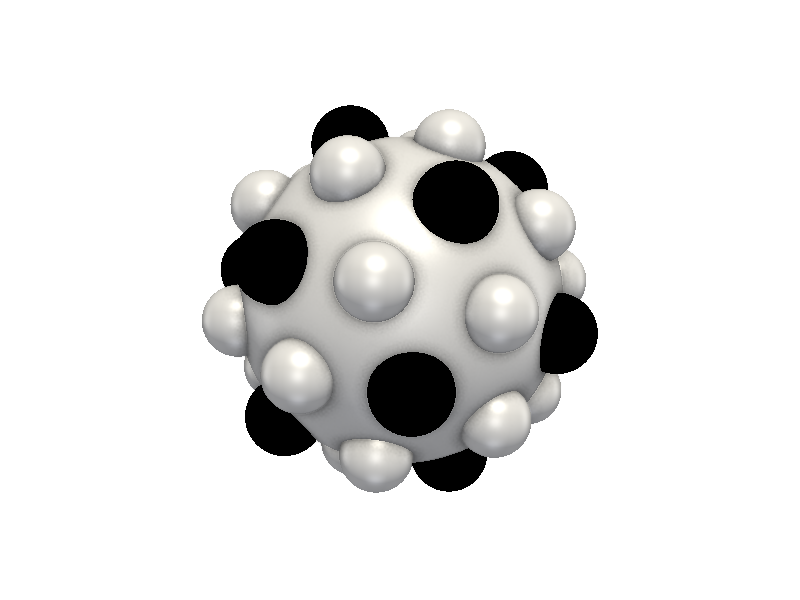
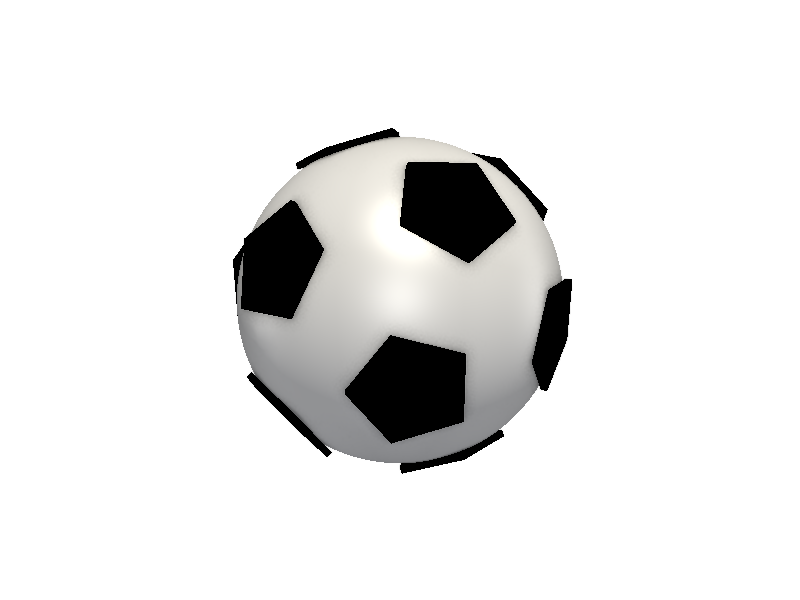
Redesign soccer ball to use flat pentagons instead of sphere bumps
The previous implementation placed small spheres at icosahedron vertices
which looked like bumps rather than a soccer ball. This new approach
creates actual flat pentagon shapes oriented tangent to the sphere
surface, producing the classic black-and-white soccer ball appearance.

Changed region(s): [[0.25, 0.18, 0.75, 0.84]]

diff --git a/examples/soccer_ball/model.py b/examples/soccer_ball/model.py
@@ -1,13 +1,14 @@
 """Soccer Ball Example
 
-A classic black and white soccer ball based on a truncated icosahedron.
-The soccer ball has 12 pentagonal panels (black) and 20 hexagonal panels (white).
+A classic black and white soccer ball with the iconic pentagon pattern.
+The 12 black pentagons are positioned at the vertices of an icosahedron,
+creating the recognizable soccer ball appearance.
 
 This example demonstrates:
 - Multi-component colored rendering
 - Mathematical vertex calculations (golden ratio for icosahedron)
-- Spherical polygon construction
-- Complex geometry with multiple features
+- 3D orientation of flat shapes on a sphere surface
+- Creating regular polygons with proper orientation
 """
 
 import cadquery as cq
@@ -17,8 +18,8 @@ import math
 # PARAMETERS
 # =============================================================================
 BALL_RADIUS = 50  # mm - standard soccer ball is ~110mm diameter
-PANEL_DEPTH = 0.5  # mm - depth of the panel recesses
-PANEL_SIZE = 12    # mm - approximate size of each panel
+PENTAGON_RADIUS = 18  # mm - size of each pentagon (corner to center)
+PENTAGON_THICKNESS = 1  # mm - thickness of the pentagon disc
 
 # Golden ratio - fundamental to icosahedron geometry
 PHI = (1 + math.sqrt(5)) / 2
@@ -31,59 +32,134 @@ WHITE = (255, 255, 255)
 # GEOMETRY HELPERS
 # =============================================================================
 
-def normalize(v, radius):
-    """Normalize a vector to lie on sphere surface."""
+def normalize(v, radius=1.0):
+    """Normalize a vector to specified length."""
     mag = math.sqrt(v[0]**2 + v[1]**2 + v[2]**2)
+    if mag == 0:
+        return (0, 0, radius)
     return (v[0]/mag * radius, v[1]/mag * radius, v[2]/mag * radius)
 
-def add_vectors(v1, v2):
-    """Add two 3D vectors."""
-    return (v1[0] + v2[0], v1[1] + v2[1], v1[2] + v2[2])
+def cross_product(a, b):
+    """Calculate cross product of two 3D vectors."""
+    return (
+        a[1]*b[2] - a[2]*b[1],
+        a[2]*b[0] - a[0]*b[2],
+        a[0]*b[1] - a[1]*b[0]
+    )
 
-def scale_vector(v, s):
-    """Scale a vector by scalar s."""
-    return (v[0] * s, v[1] * s, v[2] * s)
+def create_pentagon_at_position(center, radius, thickness):
+    """
+    Create a pentagon disc at the given position on the sphere,
+    oriented to be tangent to the sphere (facing outward).
+    """
+    # The normal vector points from origin to center (radially outward)
+    normal = normalize(center)
+
+    # Find a perpendicular vector for orientation
+    # Use cross product with a reference vector
+    if abs(normal[2]) < 0.9:
+        ref = (0, 0, 1)
+    else:
+        ref = (1, 0, 0)
+
+    # Create local coordinate system
+    tangent1 = normalize(cross_product(normal, ref))
+    tangent2 = cross_product(normal, tangent1)
+
+    # Create pentagon vertices in local 2D, then transform to 3D
+    pentagon_points = []
+    for i in range(5):
+        # Pentagon vertices - rotate by 90 degrees so one point faces up
+        angle = 2 * math.pi * i / 5 - math.pi / 2
+        local_x = radius * math.cos(angle)
+        local_y = radius * math.sin(angle)
+
+        # Transform to 3D position
+        point = (
+            center[0] + local_x * tangent1[0] + local_y * tangent2[0],
+            center[1] + local_x * tangent1[1] + local_y * tangent2[1],
+            center[2] + local_x * tangent1[2] + local_y * tangent2[2]
+        )
+        pentagon_points.append(point)
+
+    # Create the pentagon as a face, then extrude inward toward sphere center
+    # First, create a workplane at the center, oriented along the normal
+
+    # Calculate rotation angles to align Z-axis with our normal
+    # Using the direction to calculate the workplane orientation
+
+    # Create pentagon using polyline in a transformed workplane
+    try:
+        # Create a workplane at the center point
+        wp = cq.Workplane("XY")
+
+        # Create the pentagon profile
+        # We'll create it centered at origin then move it
+        pts_2d = []
+        for i in range(5):
+            angle = 2 * math.pi * i / 5 - math.pi / 2
+            pts_2d.append((radius * math.cos(angle), radius * math.sin(angle)))
+
+        # Close the polygon
+        pentagon = (
+            wp.polyline(pts_2d + [pts_2d[0]])
+            .close()
+            .extrude(thickness)
+        )
+
+        # Now we need to rotate and translate this pentagon to the correct position
+        # Calculate rotation to align Z-axis with normal vector
+
+        # Spherical coordinates of the normal
+        nx, ny, nz = normal
+
+        # Rotation about Z-axis (azimuth)
+        azimuth = math.atan2(ny, nx)
+
+        # Rotation about Y-axis (elevation from XY plane)
+        elevation = math.asin(nz)
+
+        # Apply rotations: first around Y to get elevation, then around Z for azimuth
+        pentagon = (
+            pentagon
+            .rotate((0, 0, 0), (0, 1, 0), math.degrees(math.pi/2 - elevation))
+            .rotate((0, 0, 0), (0, 0, 1), math.degrees(azimuth))
+            .translate(center)
+        )
+
+        return pentagon
+
+    except Exception:
+        # Fallback: return a small sphere if pentagon creation fails
+        return cq.Workplane("XY").sphere(radius * 0.5).translate(center)
 
 # =============================================================================
 # ICOSAHEDRON GEOMETRY
 # =============================================================================
 
 # Icosahedron vertices using golden ratio coordinates
+# These 12 vertices are where the black pentagons will be placed
 icosa_vertices_raw = [
     (0, 1, PHI), (0, -1, PHI), (0, 1, -PHI), (0, -1, -PHI),
     (1, PHI, 0), (-1, PHI, 0), (1, -PHI, 0), (-1, -PHI, 0),
     (PHI, 0, 1), (-PHI, 0, 1), (PHI, 0, -1), (-PHI, 0, -1)
 ]
 
-# Normalize to sphere surface
-icosa_vertices = [normalize(v, BALL_RADIUS) for v in icosa_vertices_raw]
-
-# 20 triangular faces of the icosahedron (vertex index triplets)
-# Each face center will become a hexagon center in the truncated icosahedron
-icosa_faces = [
-    (0, 1, 8), (0, 8, 4), (0, 4, 5), (0, 5, 9), (0, 9, 1),
-    (1, 9, 7), (1, 7, 6), (1, 6, 8), (2, 3, 10), (2, 10, 4),
-    (2, 4, 5), (2, 5, 11), (2, 11, 3), (3, 11, 7), (3, 7, 6),
-    (3, 6, 10), (4, 10, 8), (5, 9, 11), (6, 8, 10), (7, 11, 9)
-]
+# Normalize vertices to sit on sphere surface (slightly inside for the pentagon base)
+PENTAGON_INSET = 2  # How far the pentagon base sits inside the sphere
+pentagon_positions = [normalize(v, BALL_RADIUS - PENTAGON_INSET) for v in icosa_vertices_raw]
 
 # =============================================================================
 # BUILD THE SOCCER BALL
 # =============================================================================
 
-# Start with a white sphere (base ball)
+# Start with a white sphere (the ball)
 base_sphere = cq.Workplane("XY").sphere(BALL_RADIUS)
 
-# Create black pentagonal panels at the 12 icosahedron vertices
+# Create the 12 black pentagonal panels
 pentagon_panels = []
-for vertex in icosa_vertices:
-    # Create a small sphere at each vertex position
-    # This creates a circular panel that approximates a pentagon visually
-    panel = (
-        cq.Workplane("XY")
-        .sphere(PANEL_SIZE)
-        .translate(vertex)
-    )
+for pos in pentagon_positions:
+    panel = create_pentagon_at_position(pos, PENTAGON_RADIUS, PENTAGON_THICKNESS * 2)
     pentagon_panels.append(panel)
 
 # Combine all pentagon panels into one object
@@ -91,38 +167,11 @@ black_pentagons = pentagon_panels[0]
 for panel in pentagon_panels[1:]:
     black_pentagons = black_pentagons.union(panel)
 
-# Create white hexagonal panels at the 20 face centers
-hexagon_panels = []
-for face in icosa_faces:
-    # Calculate face center (average of three vertices)
-    v1, v2, v3 = [icosa_vertices[i] for i in face]
-    center_raw = (
-        (v1[0] + v2[0] + v3[0]) / 3,
-        (v1[1] + v2[1] + v3[1]) / 3,
-        (v1[2] + v2[2] + v3[2]) / 3
-    )
-    center = normalize(center_raw, BALL_RADIUS)
-
-    # Create a small sphere at each face center
-    # This creates a circular panel that approximates a hexagon visually
-    panel = (
-        cq.Workplane("XY")
-        .sphere(PANEL_SIZE * 0.9)  # Slightly smaller than pentagons
-        .translate(center)
-    )
-    hexagon_panels.append(panel)
-
-# Combine all hexagon panels into one object
-white_hexagons = hexagon_panels[0]
-for panel in hexagon_panels[1:]:
-    white_hexagons = white_hexagons.union(panel)
-
 # Create components dict for colored rendering
 components = {
-    'base_sphere': (base_sphere, WHITE),
-    'black_pentagons': (black_pentagons, BLACK),
-    'white_hexagons': (white_hexagons, WHITE)
+    'ball': (base_sphere, WHITE),
+    'pentagons': (black_pentagons, BLACK),
 }
 
 # For backwards compatibility with direct STL export
-result = base_sphere.union(black_pentagons).union(white_hexagons)
+result = base_sphere.union(black_pentagons)
